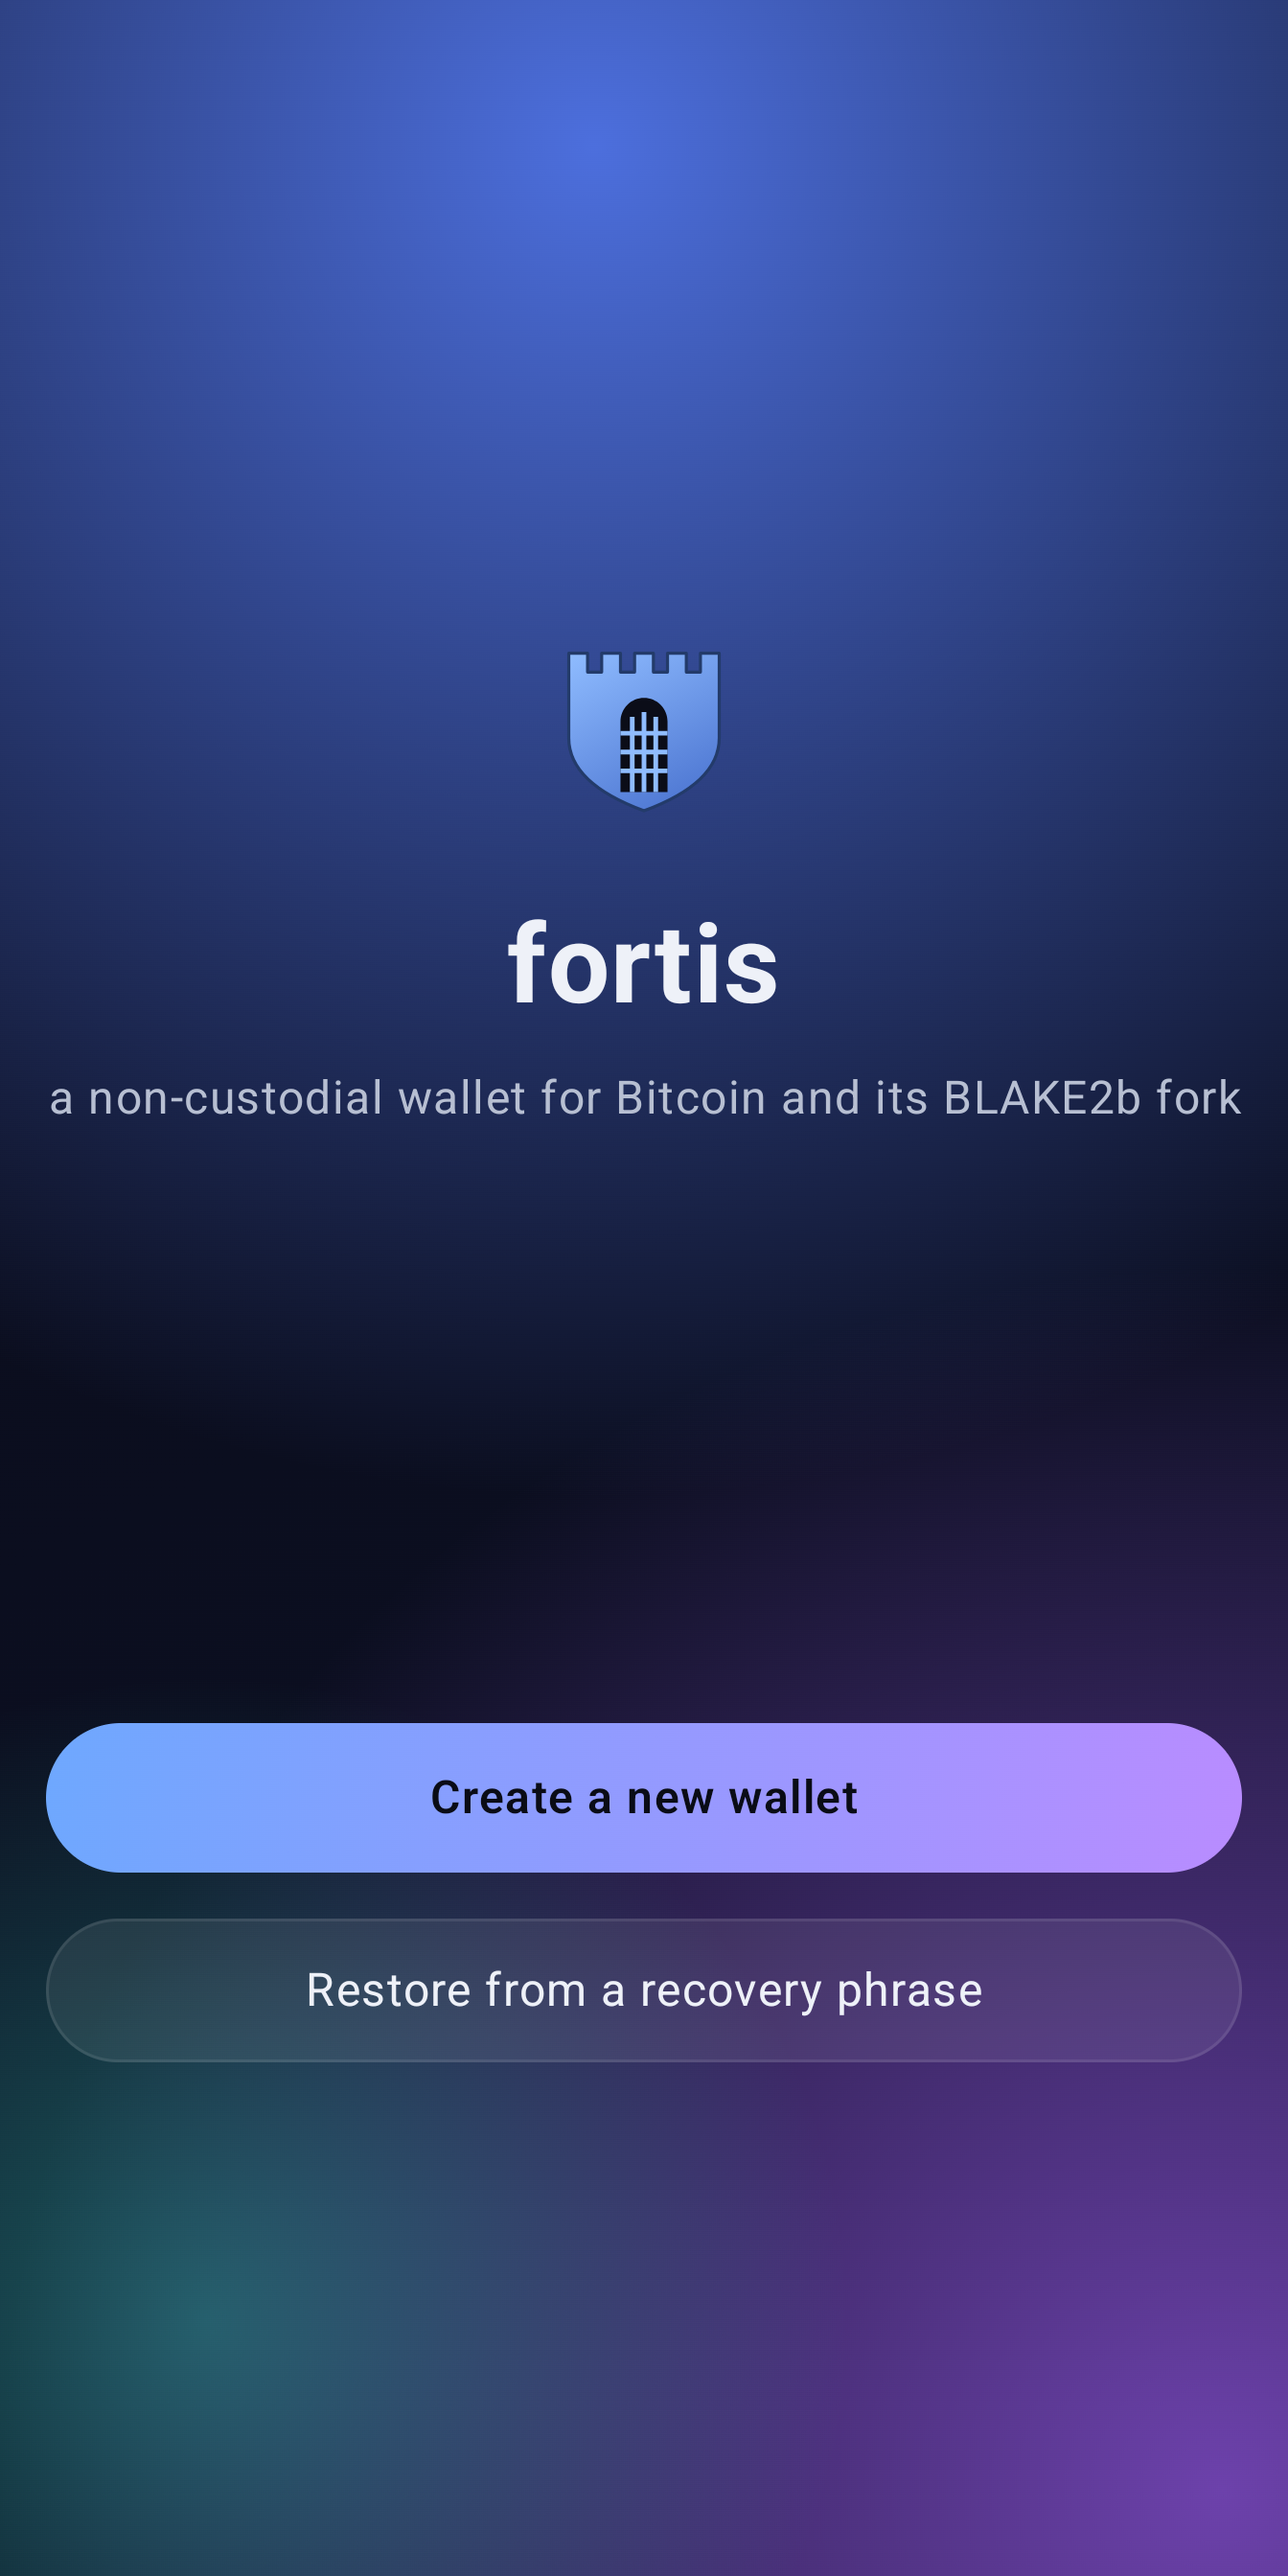
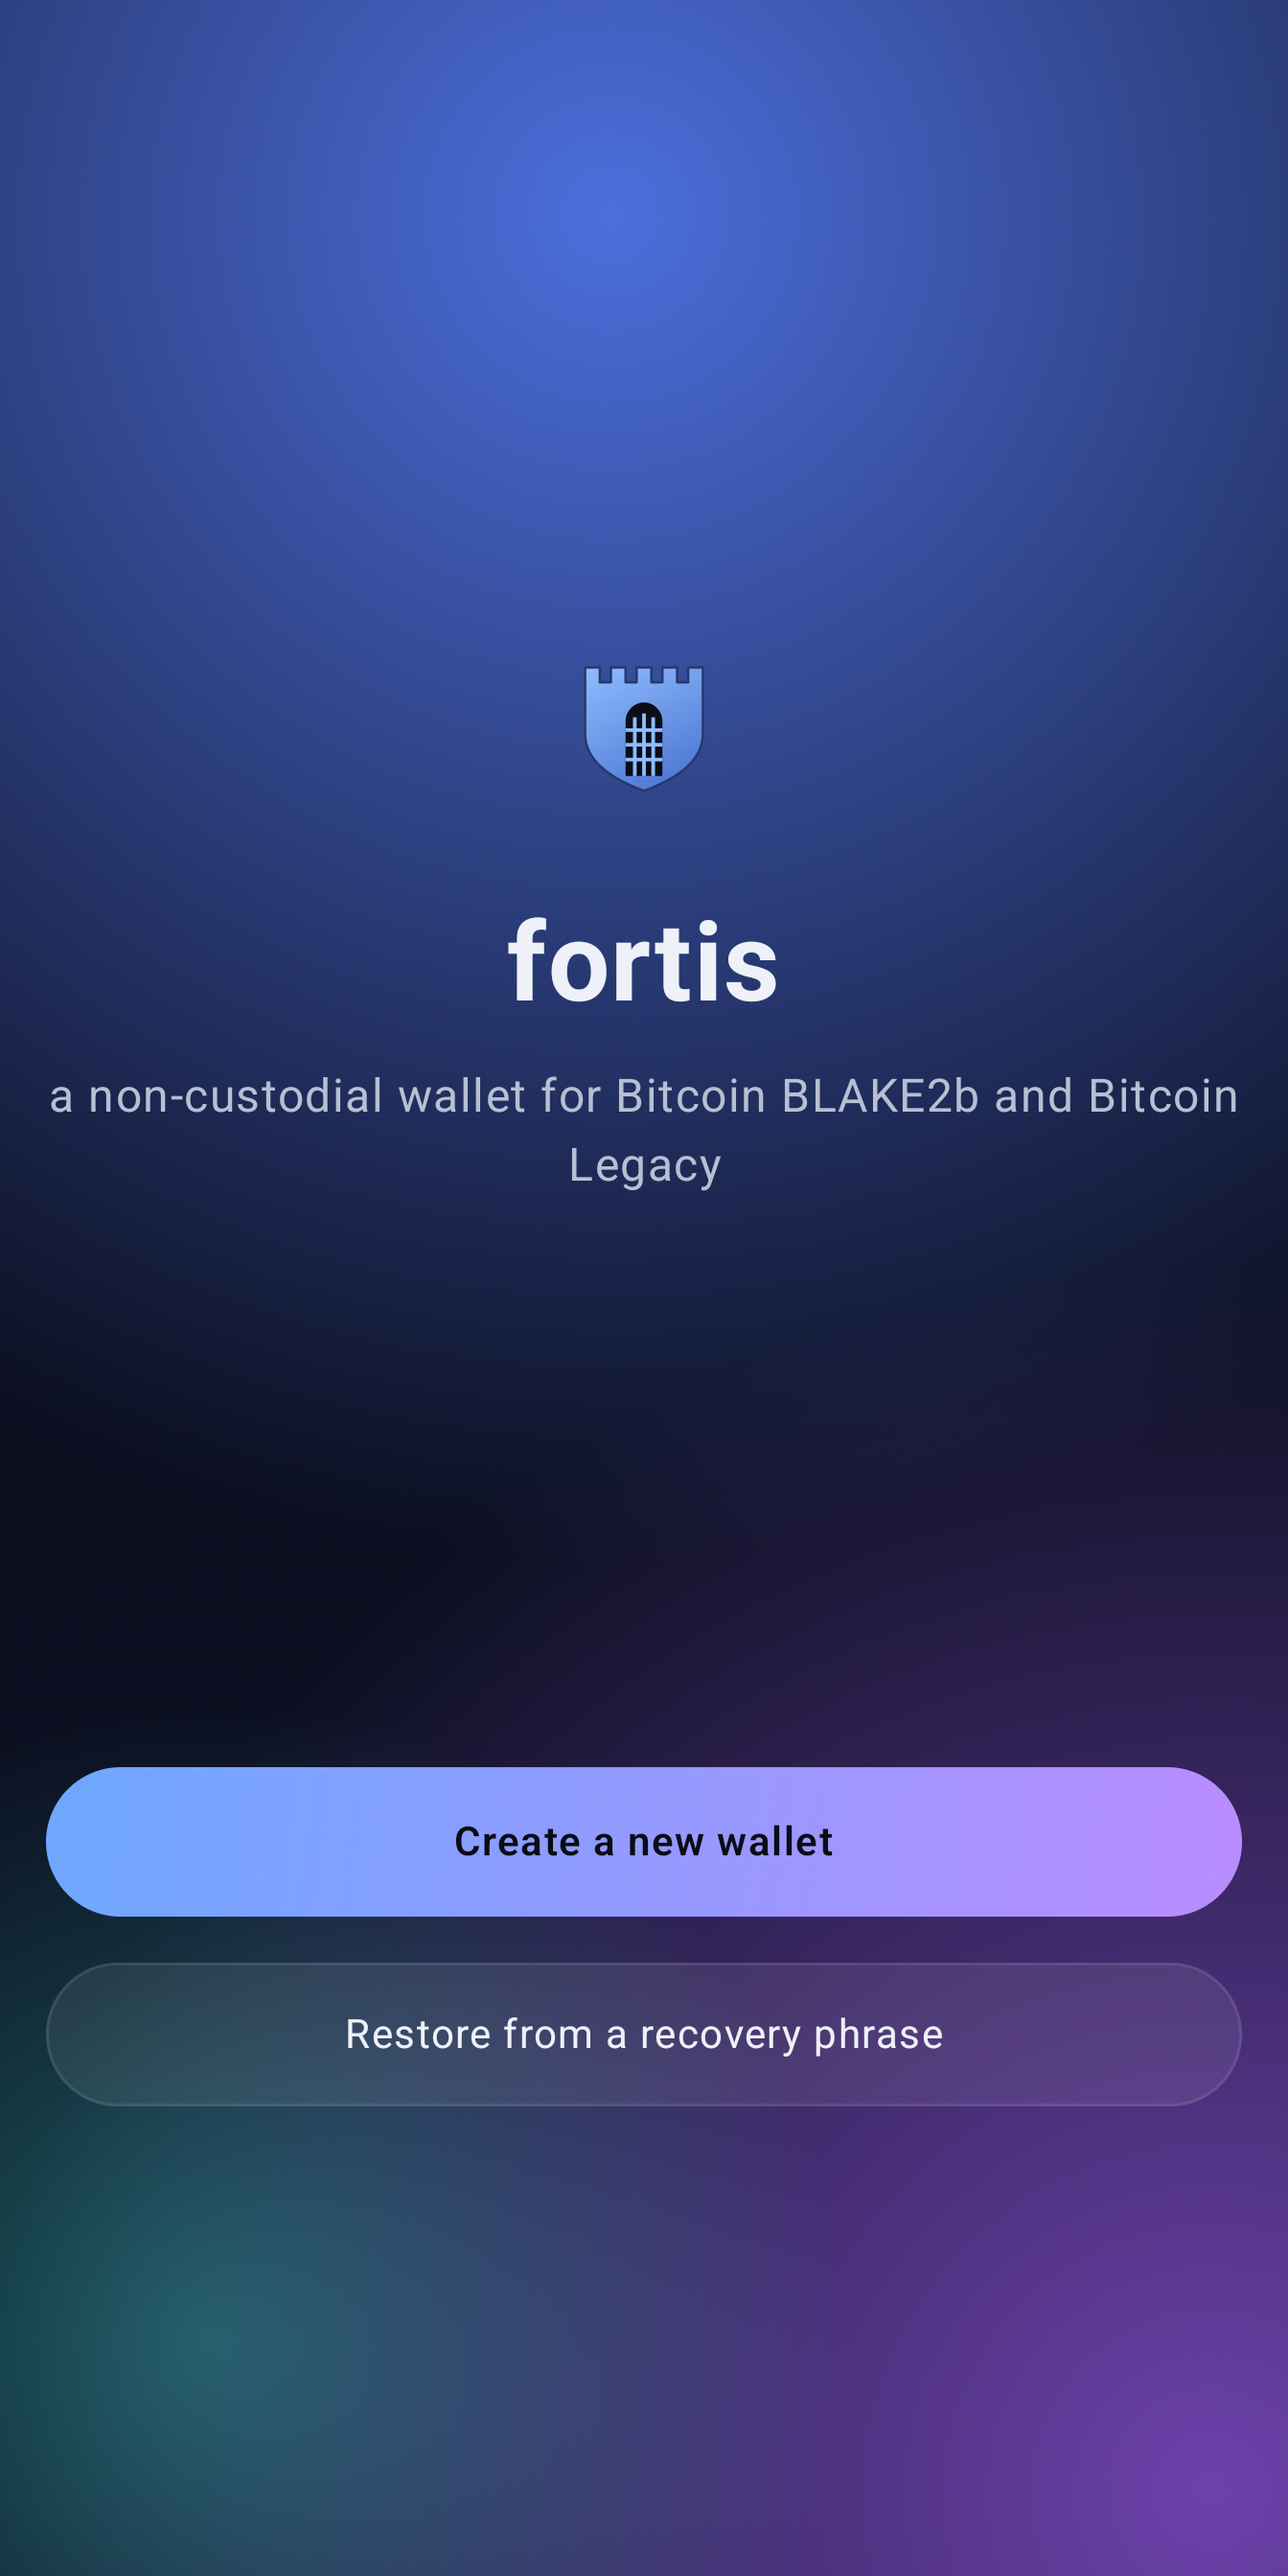
site + store: refresh screenshots for the XBT rename
Re-captured onboard / receive / send / settings from the current build
(Pixel 8 Pro AVD, debug) against the live api.fortis.rest: XBT ticker,
current layout (wallet-name label, fiat line, QR copy hint), "connected"
status. Status bar + gesture pill cropped; 1344×2688 for the store,
downscaled to 440×880 JPG for site/img.

diff --git a/store/STORE.md b/store/STORE.md
@@ -107,9 +107,11 @@ The operating entity is **Fortis Tech Labs** (address as in the privacy policy).
 | Feature graphic | `feature-graphic.png` | 1024×500 PNG |
 | Phone screenshots | `screenshots/0{1..4}-*.png` | 1344×2688 (2:1) |
 
-Screenshots 2–4 are from a debug build; the Home and Settings screens are
-identical in release. Re-grab from a release build if you want the exact status
-bar. Consider adding framed/captioned marketing versions later.
+Screenshots are from a debug build (identical to release for these screens),
+`Pixel_8_Pro_AVD`, status bar + gesture pill cropped off. Wallet "Savings" on
+XBT against the live `api.fortis.rest` ("connected"). Re-grab from a release
+build if you want the exact status bar. Consider adding framed/captioned
+marketing versions later.
 
 ## TODO before submitting
 
